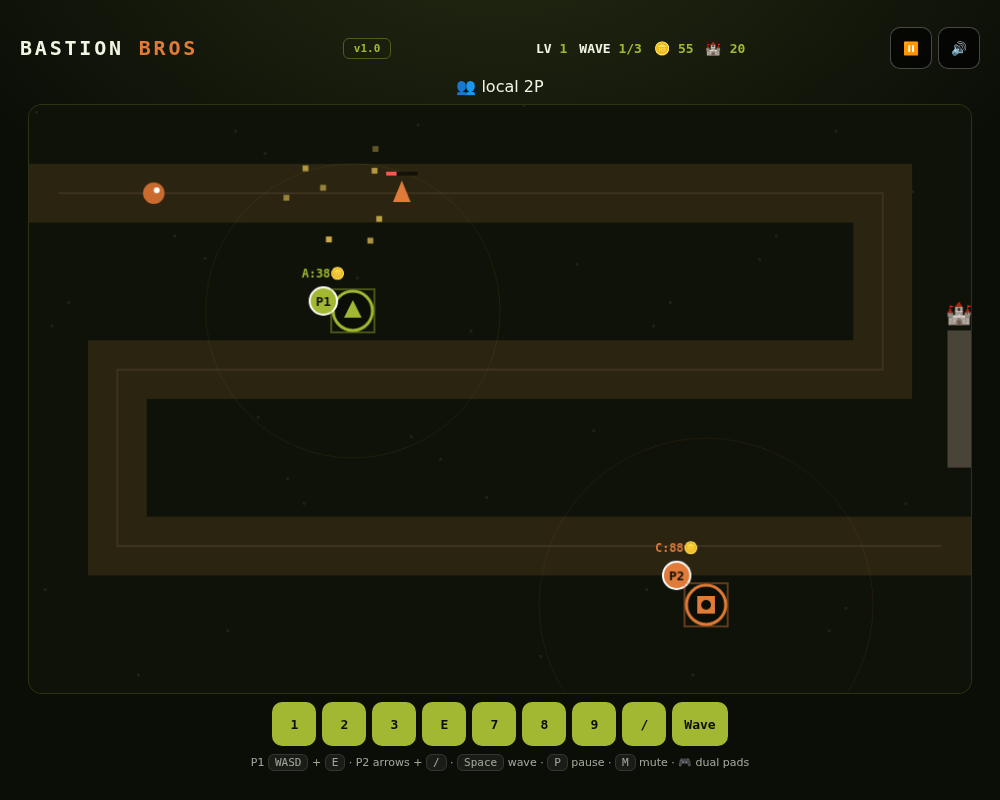
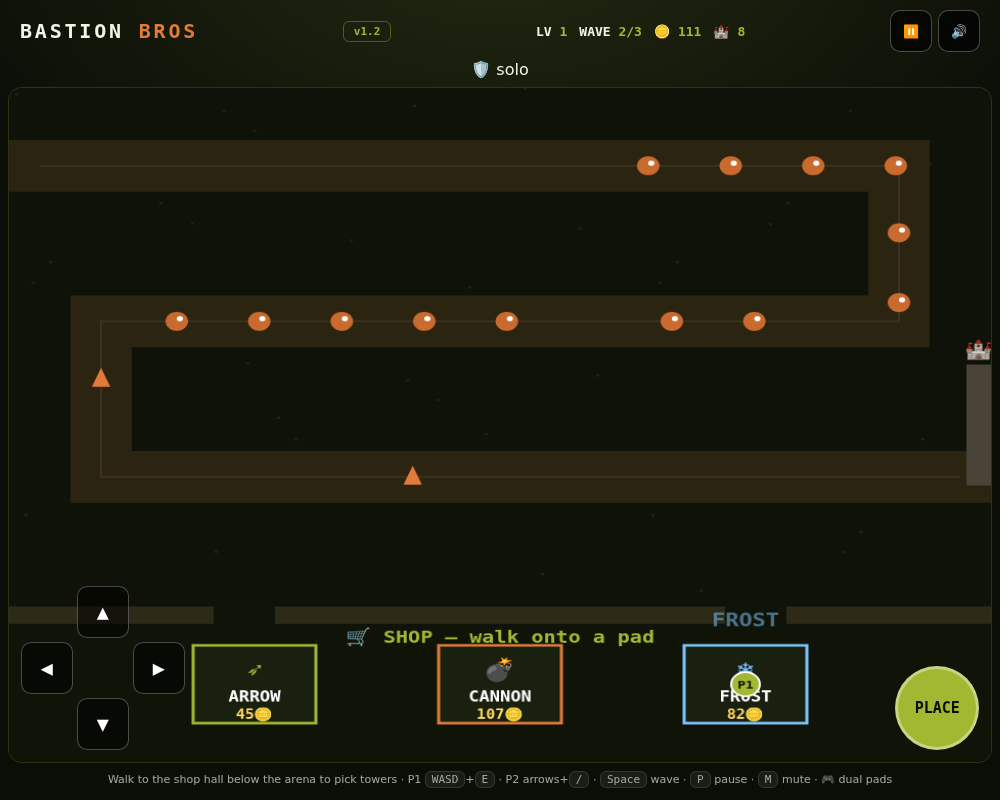
Fullscreen annex shop hall, walk-to-select, D-pad + place touch

diff --git a/local-browser-games/hybrid1-2/bastion/index.html b/local-browser-games/hybrid1-2/bastion/index.html
@@ -20,8 +20,11 @@ body{margin:0;background:radial-gradient(1000px 600px at 50% -10%,#232a12 0%,var
 #verBadge{font-family:var(--mono);font-size:11px;font-weight:800;color:var(--c1);border:1px solid #a3b83266;border-radius:6px;padding:3px 10px;white-space:nowrap}
 #hud{display:flex;gap:12px;font-family:var(--mono);font-weight:800;font-size:13px;flex-wrap:wrap;font-variant-numeric:tabular-nums}
 #hud b{color:var(--c1)}
-#stage{position:relative;width:min(980px,96vw,calc((100dvh - 210px)*1.6));aspect-ratio:16/10;border-radius:14px;overflow:hidden;border:1px solid #a3b83233;background:#0e1208}
+#stage{position:relative;width:min(100vw,calc(100dvh*960/780));aspect-ratio:960/780;border-radius:14px;overflow:hidden;border:1px solid #a3b83233;background:#0e1208}
 canvas{width:100%;height:100%;display:block;touch-action:none}
+#dpad{position:absolute;left:12px;bottom:12px;display:grid;grid-template-columns:repeat(3,52px);grid-template-rows:repeat(3,52px);gap:4px;z-index:5}
+#dpad button{margin:0;padding:0;min-width:52px;min-height:52px;font-size:20px;background:#00000088;color:#fff;border:1px solid #ffffff44}
+#placeBtn{position:absolute;right:12px;bottom:12px;z-index:5;width:84px;height:84px;min-width:84px;border-radius:50%;margin:0;padding:0;font-size:15px;background:#a3b832;color:#0b0e07;border:3px solid #ffffff66}
 #overlay{position:fixed;inset:0;z-index:50;display:flex;align-items:center;justify-content:center;background:rgba(8,10,5,.82);backdrop-filter:blur(6px);padding:14px}
 .card{width:min(460px,94%);background:#141a0c;border:1px solid #ffffff22;border-radius:16px;padding:20px;text-align:center;max-height:94%;overflow:auto}
 .card h1{margin:.2em 0;font-size:22px;font-family:var(--mono)}
@@ -31,8 +34,6 @@ button.ghost{background:#ffffff14;color:#fff;border:1px solid #ffffff2a}
 .row{display:flex;gap:8px}
 #hint{font-size:11px;opacity:.65;text-align:center;line-height:1.7;max-width:96vw}
 kbd{font-family:var(--mono);background:#ffffff1a;border:1px solid #ffffff2e;border-radius:6px;padding:1px 6px;font-size:11px}
-#touchbar{display:flex;gap:6px;justify-content:center;flex-wrap:wrap}
-#touchbar button{width:auto;margin:0;padding:10px 12px;min-width:44px;min-height:44px}
 #pveil{position:fixed;inset:0;z-index:60;display:none;align-items:center;justify-content:center;background:rgba(8,10,5,.85);padding:14px}
 #pveil .card{width:min(340px,92%)}
 #mbtns{display:flex;gap:6px}
@@ -50,18 +51,20 @@ kbd{font-family:var(--mono);background:#ffffff1a;border:1px solid #ffffff2e;bord
 <div id="wrap">
   <div id="top">
     <div class="logo">BASTION <span>BROS</span></div>
-    <div id="verBadge">v1.2</div>
+    <div id="verBadge">v1.3</div>
     <div id="hud"><div>LV <b id="level">1</b></div><div>WAVE <b id="wave">–</b></div><div>🪙 <b id="gold">0</b></div><div>🏰 <b id="base">20</b></div></div>
     <div id="mbtns"><button id="pauseBtn" title="Pause">⏸</button><button id="muteBtn" title="Mute">🔊</button></div>
   </div>
   <div id="mode">menu</div>
   <div id="stage">
-    <canvas id="cv" width="960" height="600"></canvas>
+    <canvas id="cv" width="960" height="780"></canvas>
+    <div id="dpad"><span></span><button data-d="up">▲</button><span></span><button data-d="lf">◀</button><span></span><button data-d="rt">▶</button><span></span><button data-d="dn">▼</button><span></span></div>
+    <button id="placeBtn">PLACE</button>
     <div id="overlay"><div class="card">
       <h1>🏰 BASTION BROS</h1>
-      <p>Hold the winding road together. You are the build cursor — stand on grass, place towers.<br>
+      <p>Hold the winding road together. Walk down to the shop hall to pick a tower, then stand on grass and build.<br>
       P1: <kbd>1</kbd><kbd>2</kbd><kbd>3</kbd> select + <kbd>E</kbd> build · P2: <kbd>7</kbd><kbd>8</kbd><kbd>9</kbd> + <kbd>/</kbd> build<br>
-      <kbd>Space</kbd> starts each wave • building mid-wave costs +25% • stand on a tower + build key = repair (50%)</p>
+      <kbd>Space</kbd> starts each wave • building mid-wave costs +25% • stand on a tower + build key = repair (75%)</p>
       <div class="row"><button id="b1p">🛡 Solo</button><button id="b1pai">🤖 Solo + AI</button><button id="b2p">👥 2 Players</button></div>
       <div id="arcRow" style="margin:8px 0 0;font-size:13px;text-align:left"><span id="arcWho"></span><span id="arcEdit"><input id="arcName" maxlength="12" placeholder="arcade name…" style="width:100%;padding:10px;border-radius:10px;border:1px solid #ffffff33;background:#0e1208;color:#fff;font-size:14px;outline:none;margin-top:6px;user-select:text;-webkit-user-select:text"><button id="arcSave" class="ghost" style="width:100%;margin-top:6px">Save name</button><div id="arcMsg" style="font-size:11px;opacity:.75;min-height:16px;margin-top:4px"></div></span></div>
       <div class="row"><button id="startBtn">Start</button></div>
@@ -70,12 +73,7 @@ kbd{font-family:var(--mono);background:#ffffff1a;border:1px solid #ffffff2e;bord
       <div style="margin-top:6px;font-size:12px;opacity:.7"><a href="https://benjooyt.github.io/browser-games/" target="_blank" rel="noopener" style="color:inherit">more games →</a></div>
     </div></div>
   </div>
-  <div id="touchbar">
-    <button data-t="1">1</button><button data-t="2">2</button><button data-t="3">3</button><button data-t="E">E</button>
-    <button data-t="7">7</button><button data-t="8">8</button><button data-t="9">9</button><button data-t="/">/</button>
-    <button data-t=" ">Wave</button>
-  </div>
-  <div id="hint">P1 <kbd>WASD</kbd> + <kbd>E</kbd> · P2 arrows + <kbd>/</kbd> · <kbd>Space</kbd> wave · <kbd>P</kbd> pause · <kbd>M</kbd> mute · 🎮 dual pads</div>
+  <div id="hint">Walk to the shop hall below the arena to pick towers · P1 <kbd>WASD</kbd>+<kbd>E</kbd> · P2 arrows+<kbd>/</kbd> · <kbd>Space</kbd> wave · <kbd>P</kbd> pause · <kbd>M</kbd> mute · 🎮 dual pads</div>
   <div id="pveil"><div class="card">
     <h1>⏸ PAUSED</h1>
     <button id="resumeBtn">Resume</button>
@@ -167,8 +165,8 @@ function lbWireName(){
 function lbRefresh(){try{const el=document.getElementById('lbLine');if(el){el.textContent='global board: loading…';lbTop(5).then(rows=>lbRender(el,rows,v=>'level '+v));}}catch(e){}}
 const cv=document.getElementById('cv'),ctx=cv.getContext('2d');
 const ov=document.getElementById('overlay');
-// BASTION BROS v1.2 — static co-op tower defense. All motion dt-based (per-second units).
-const W=960,H=600,COLS=16,ROWS=10,CELL=60;
+// BASTION BROS v1.3 — static co-op tower defense. All motion dt-based (per-second units).
+const W=960,H=780,COLS=16,ROWS=10,CELL=60;
 const TOWERS={
   arrow:{cost:36,dmg:8,rate:1.5,range:150,hp:100,col:'#a3b832',name:'Arrow'},
   cannon:{cost:85,dmg:22,rate:0.7,range:170,splash:55,hp:160,col:'#e07b39',name:'Cannon'},
@@ -201,15 +199,17 @@ document.getElementById('b1p').onclick=()=>pickMode('1p','🛡 solo — WASD + E
 document.getElementById('b1pai').onclick=()=>pickMode('1pai','🤖 solo + AI');
 document.getElementById('b2p').onclick=()=>pickMode('2p','👥 local 2P — WASD+E vs arrows+/');
 document.getElementById('startBtn').onclick=()=>{if(lbGate())start();};
-document.querySelectorAll('#touchbar button').forEach(b=>b.onclick=()=>tapKey(b.dataset.t));
-function tapKey(k){
-  if(k===' '){if(phase==='build')startWave();return;}
-  if(k==='E'){tryBuild(players[0]);return;}
-  if(k==='/'){if(players[1])tryBuild(players[1]);return;}
-  const i1=TKEYS1.indexOf(k),i2=TKEYS2.indexOf(k);
-  if(i1>=0&&players[0])players[0].sel=i1;
-  if(i2>=0&&players[1])players[1].sel=i2;
-}
+// ---------- touch: D-pad (P1) + PLACE, drag halves still steer ----------
+const dpadState={up:0,dn:0,lf:0,rt:0};
+document.querySelectorAll('#dpad button').forEach(b=>{
+  const d=b.dataset.d;
+  const on=e=>{e.preventDefault();dpadState[d==='up'?'up':d==='dn'?'dn':d==='lf'?'lf':'rt']=1;};
+  const off=e=>{e.preventDefault();dpadState[d==='up'?'up':d==='dn'?'dn':d==='lf'?'lf':'rt']=0;};
+  b.addEventListener('touchstart',on,{passive:false});b.addEventListener('touchend',off);b.addEventListener('touchcancel',off);
+  b.addEventListener('mousedown',on);b.addEventListener('mouseup',off);b.addEventListener('mouseleave',off);
+});
+document.getElementById('placeBtn').addEventListener('touchstart',e=>{e.preventDefault();if(players[0])tryBuild(players[0]);},{passive:false});
+document.getElementById('placeBtn').addEventListener('mousedown',()=>{if(players[0])tryBuild(players[0]);});
 function showMenu(){
   running=false;over=false;paused=false;hideVeil();
   try{document.querySelector('#overlay .card h1').textContent='🏰 BASTION BROS';}catch(e){}
@@ -221,7 +221,7 @@ function openPause(){if(!running||over)return;paused=true;document.getElementByI
 function resumeGame(){if(!running||over)return;paused=false;hideVeil();beep(600,.06);}
 function togglePauseMenu(){if(!running||over)return;if(document.getElementById('pveil').style.display==='flex')resumeGame();else openPause();}
 // ---------- run state ----------
-function mkPlayer(id,color,x,y){return{id,color,x,y,sel:0};}
+function mkPlayer(id,color,x,y){return{id,color,x,y,py:y,sel:0};}
 function cellAt(x,y){return[Math.floor(x/CELL),Math.floor(y/CELL)];}
 function inGrid(c,r){return c>=0&&c<COLS&&r>=0&&r<ROWS;}
 function tileFree(c,r){
@@ -417,7 +417,22 @@ cv.addEventListener('touchend',endTouch);cv.addEventListener('touchcancel',endTo
 cv.addEventListener('mousedown',e=>{const p=ptrFromClient(e.clientX,e.clientY);if(mode==='2p'&&!p.left)touchT2={x:p.x,y:p.y};else touchT1={x:p.x,y:p.y};});
 window.addEventListener('mouseup',()=>{touchT1=null;touchT2=null;});
 cv.addEventListener('mousemove',e=>{if(e.buttons){const p=ptrFromClient(e.clientX,e.clientY);if(mode==='2p'&&!p.left)touchT2={x:p.x,y:p.y};else touchT1={x:p.x,y:p.y};}});
-// ---------- update ----------
+// ---------- annex shop hall (walk onto a pad to select) ----------
+const SHOPS=[
+  {type:'arrow',x:240},{type:'cannon',x:480},{type:'frost',x:720},
+];
+const SHOP_Y=690,SHOP_W=120,SHOP_H=90;
+const DOORS=[[200,260],[700,760]];
+function inDoor(x){return DOORS.some(d=>x>=d[0]&&x<=d[1]);}
+function shopPick(p){
+  for(const s of SHOPS){
+    if(Math.abs(p.x-s.x)<SHOP_W/2&&Math.abs(p.y-SHOP_Y)<SHOP_H/2){
+      const idx=TNAMES.indexOf(s.type);
+      if(idx>=0&&p.sel!==idx){p.sel=idx;floater(p.x,p.y-40,TOWERS[s.type].name.toUpperCase(),TOWERS[s.type].col);beep(990,.06);}
+      return;
+    }
+  }
+}
 function steerAvatar(p,tx,ty,dt){
   const dx=tx-p.x,dy=ty-p.y,d=Math.hypot(dx,dy);
   if(d<4)return;
@@ -437,7 +452,12 @@ function update(dt){
     if(keys[c.up])dy-=1;if(keys[c.dn])dy+=1;if(keys[c.lf])dx-=1;if(keys[c.rt])dx+=1;
     if(dx||dy){const l=Math.hypot(dx,dy),sp=340*dt;p.x+=dx/l*sp;p.y+=dy/l*sp;}
     else{const tt=pi===0?touchT1:touchT2;if(tt)steerAvatar(p,tt.x,tt.y,dt);}
+    if(pi===0){if(dpadState.up)p.y-=340*dt;if(dpadState.dn)p.y+=340*dt;if(dpadState.lf)p.x-=340*dt;if(dpadState.rt)p.x+=340*dt;}
     p.x=Math.max(20,Math.min(W-20,p.x));p.y=Math.max(20,Math.min(H-20,p.y));
+    // annex wall (y 600-620) with two door gaps
+    if(p.y>592&&p.y<628&&!inDoor(p.x))p.y=p.py<600?592:628;
+    p.py=p.y;
+    shopPick(p);
   });
   aiThink(dt);
   // fx decay runs in every phase so banners/particles never freeze between waves
@@ -556,6 +576,25 @@ function draw(now,dt){
   for(const [c,r] of PATH)ctx.fillRect(c*CELL,r*CELL,CELL,CELL);
   ctx.strokeStyle='#3d3220';ctx.lineWidth=2;
   ctx.beginPath();WAYPTS.forEach((w,i)=>i?ctx.lineTo(w.x,w.y):ctx.moveTo(w.x,w.y));ctx.stroke();
+  // annex shop hall (below the arena): floor, wall with door gaps, walk-to pads
+  ctx.fillStyle='#101408';ctx.fillRect(0,600,W,H-600);
+  ctx.fillStyle='#2e2a18';
+  for(const [dx0,dx1] of [[0,200],[260,700],[760,960]])ctx.fillRect(dx0,600,dx1-dx0,20);
+  ctx.fillStyle='#a3b832';ctx.font='900 20px ui-monospace,monospace';ctx.textAlign='center';
+  ctx.fillText('🛒 SHOP — walk onto a pad',W/2,642);
+  for(const s of SHOPS){
+    const T=TOWERS[s.type],afford=gold>=towerCost(s.type);
+    ctx.save();ctx.globalAlpha=afford?1:.45;
+    ctx.fillStyle='#1a2010';ctx.strokeStyle=T.col;ctx.lineWidth=3;
+    ctx.beginPath();ctx.rect(s.x-SHOP_W/2,SHOP_Y-SHOP_H/2,SHOP_W,SHOP_H);ctx.fill();ctx.stroke();
+    ctx.fillStyle=T.col;ctx.font='900 26px ui-monospace,monospace';
+    ctx.fillText(s.type==='arrow'?'➶':s.type==='cannon'?'💣':'❄',s.x,SHOP_Y-8);
+    ctx.fillStyle='#fff';ctx.font='900 17px ui-monospace,monospace';
+    ctx.fillText(T.name.toUpperCase(),s.x,SHOP_Y+20);
+    ctx.fillStyle=afford?'#ffd75e':'#ff6666';ctx.font='900 15px ui-monospace,monospace';
+    ctx.fillText(towerCost(s.type)+'🪙',s.x,SHOP_Y+40);
+    ctx.restore();
+  }
   // base (right edge fort)
   ctx.fillStyle='#4a4438';ctx.fillRect(W-24,H/2-70,24,140);
   ctx.fillStyle='#a3b832';ctx.font='900 22px ui-monospace,monospace';ctx.textAlign='center';

diff --git a/local-browser-games/hybrid1-2/bastion/sw.js b/local-browser-games/hybrid1-2/bastion/sw.js
@@ -1,4 +1,4 @@
-const C='bastion-v12'; // bump with every game version so updates reach installed players
+const C='bastion-v13'; // bump with every game version so updates reach installed players
 const A=['index.html','manifest.webmanifest','icon.svg'];
 self.addEventListener('install',e=>{e.waitUntil(caches.open(C).then(c=>c.addAll(A)).then(()=>self.skipWaiting()));});
 self.addEventListener('activate',e=>{e.waitUntil(caches.keys().then(ks=>Promise.all(ks.filter(k=>k!==C).map(k=>caches.delete(k)))).then(()=>self.clients.claim()));});
